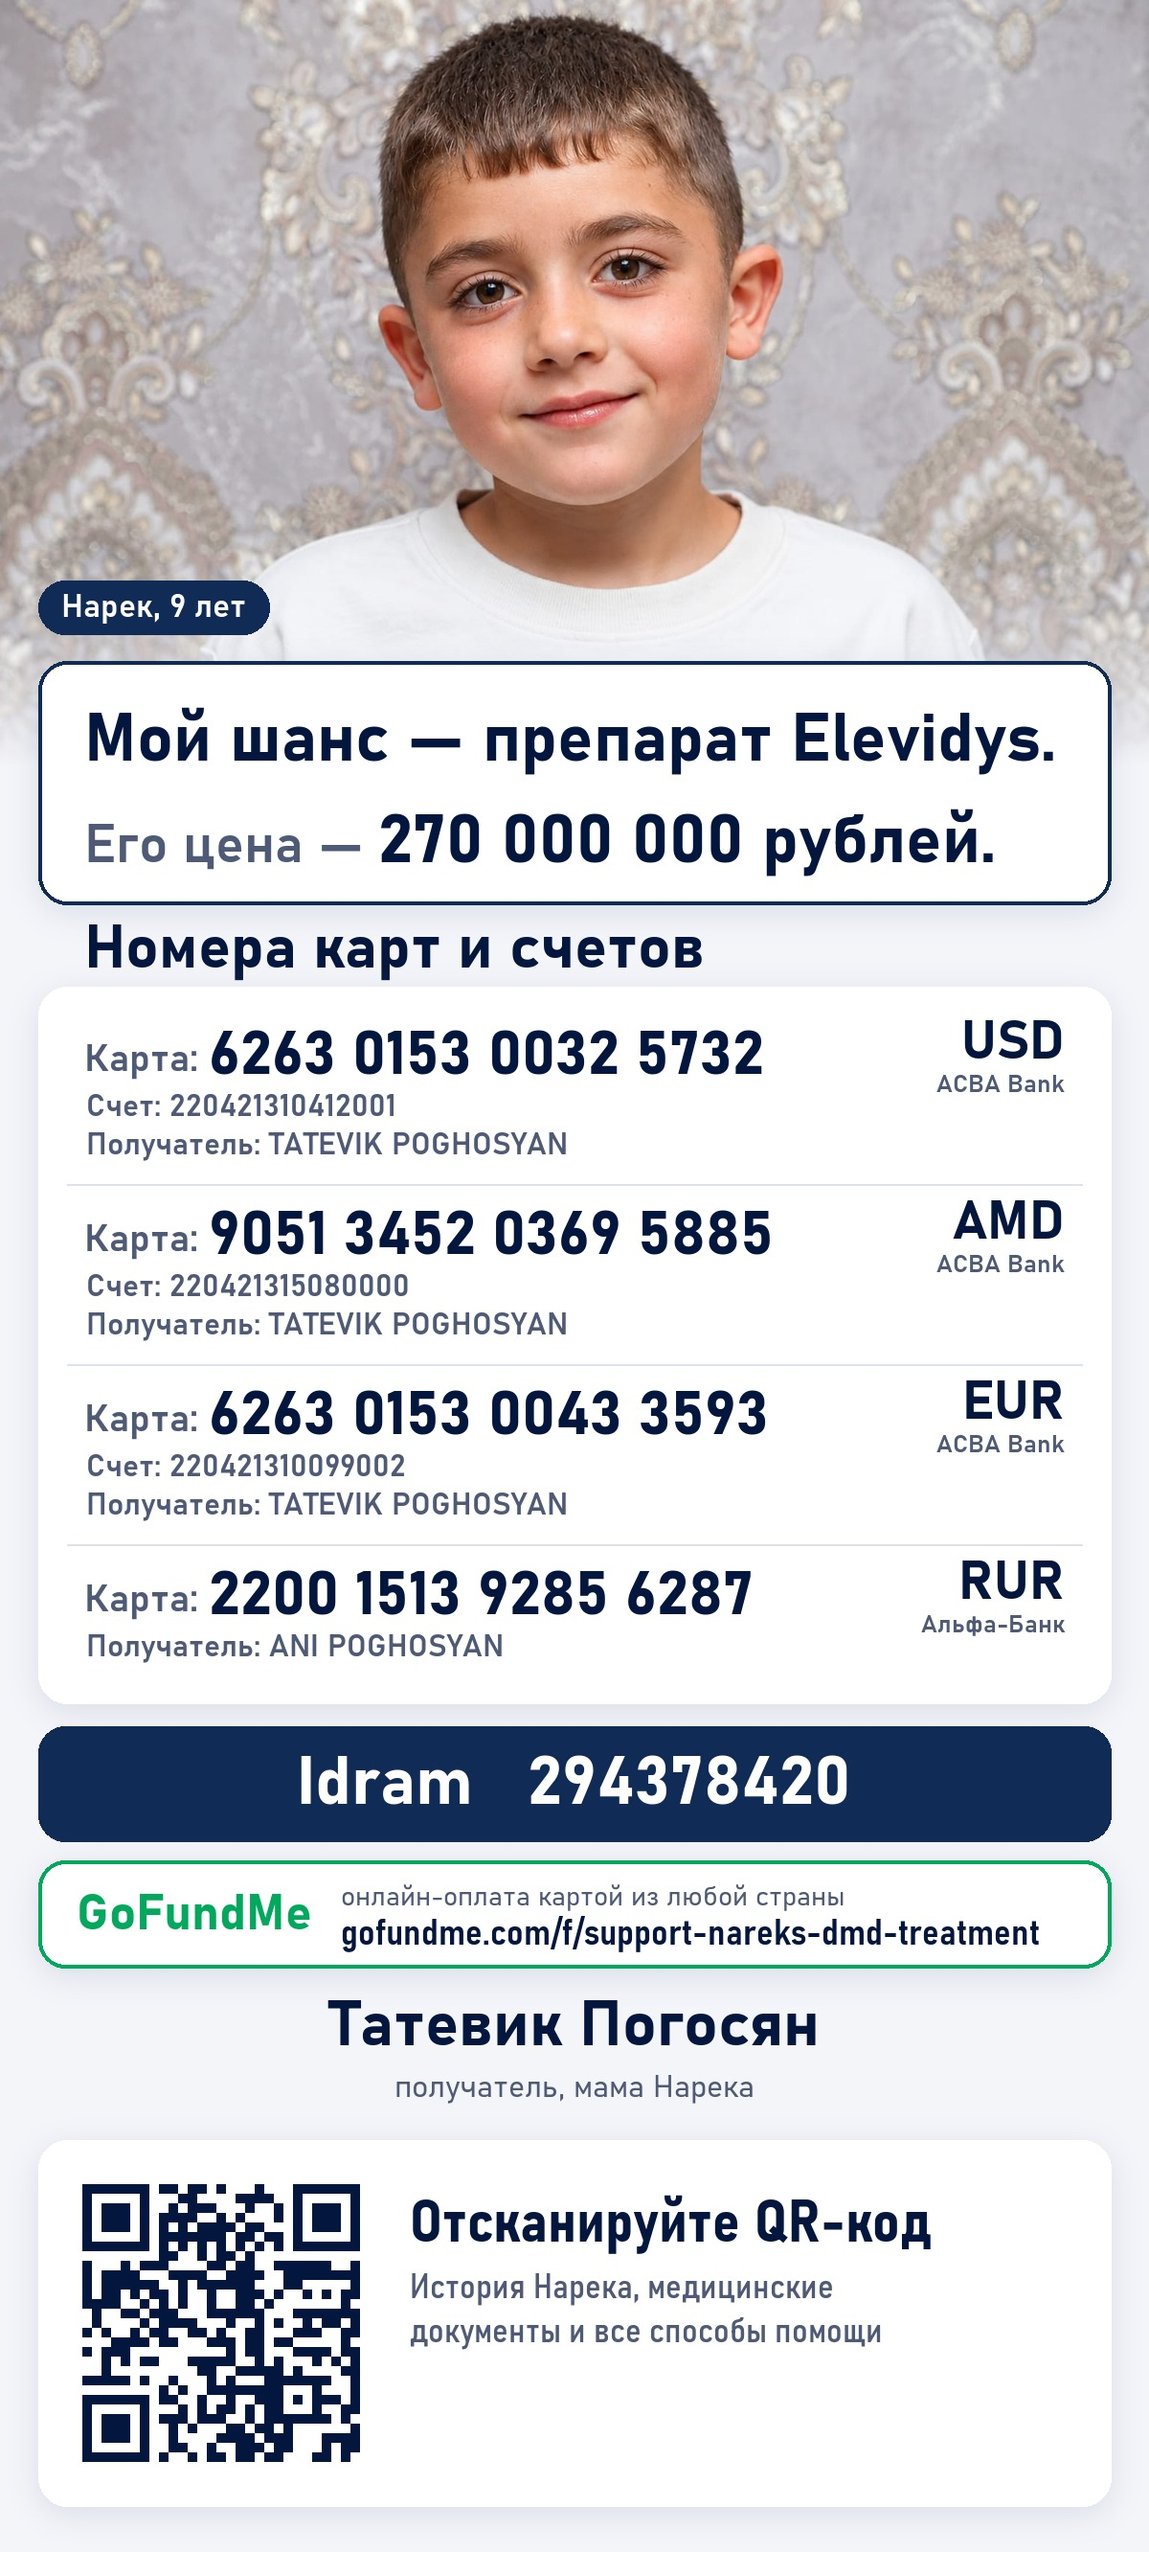
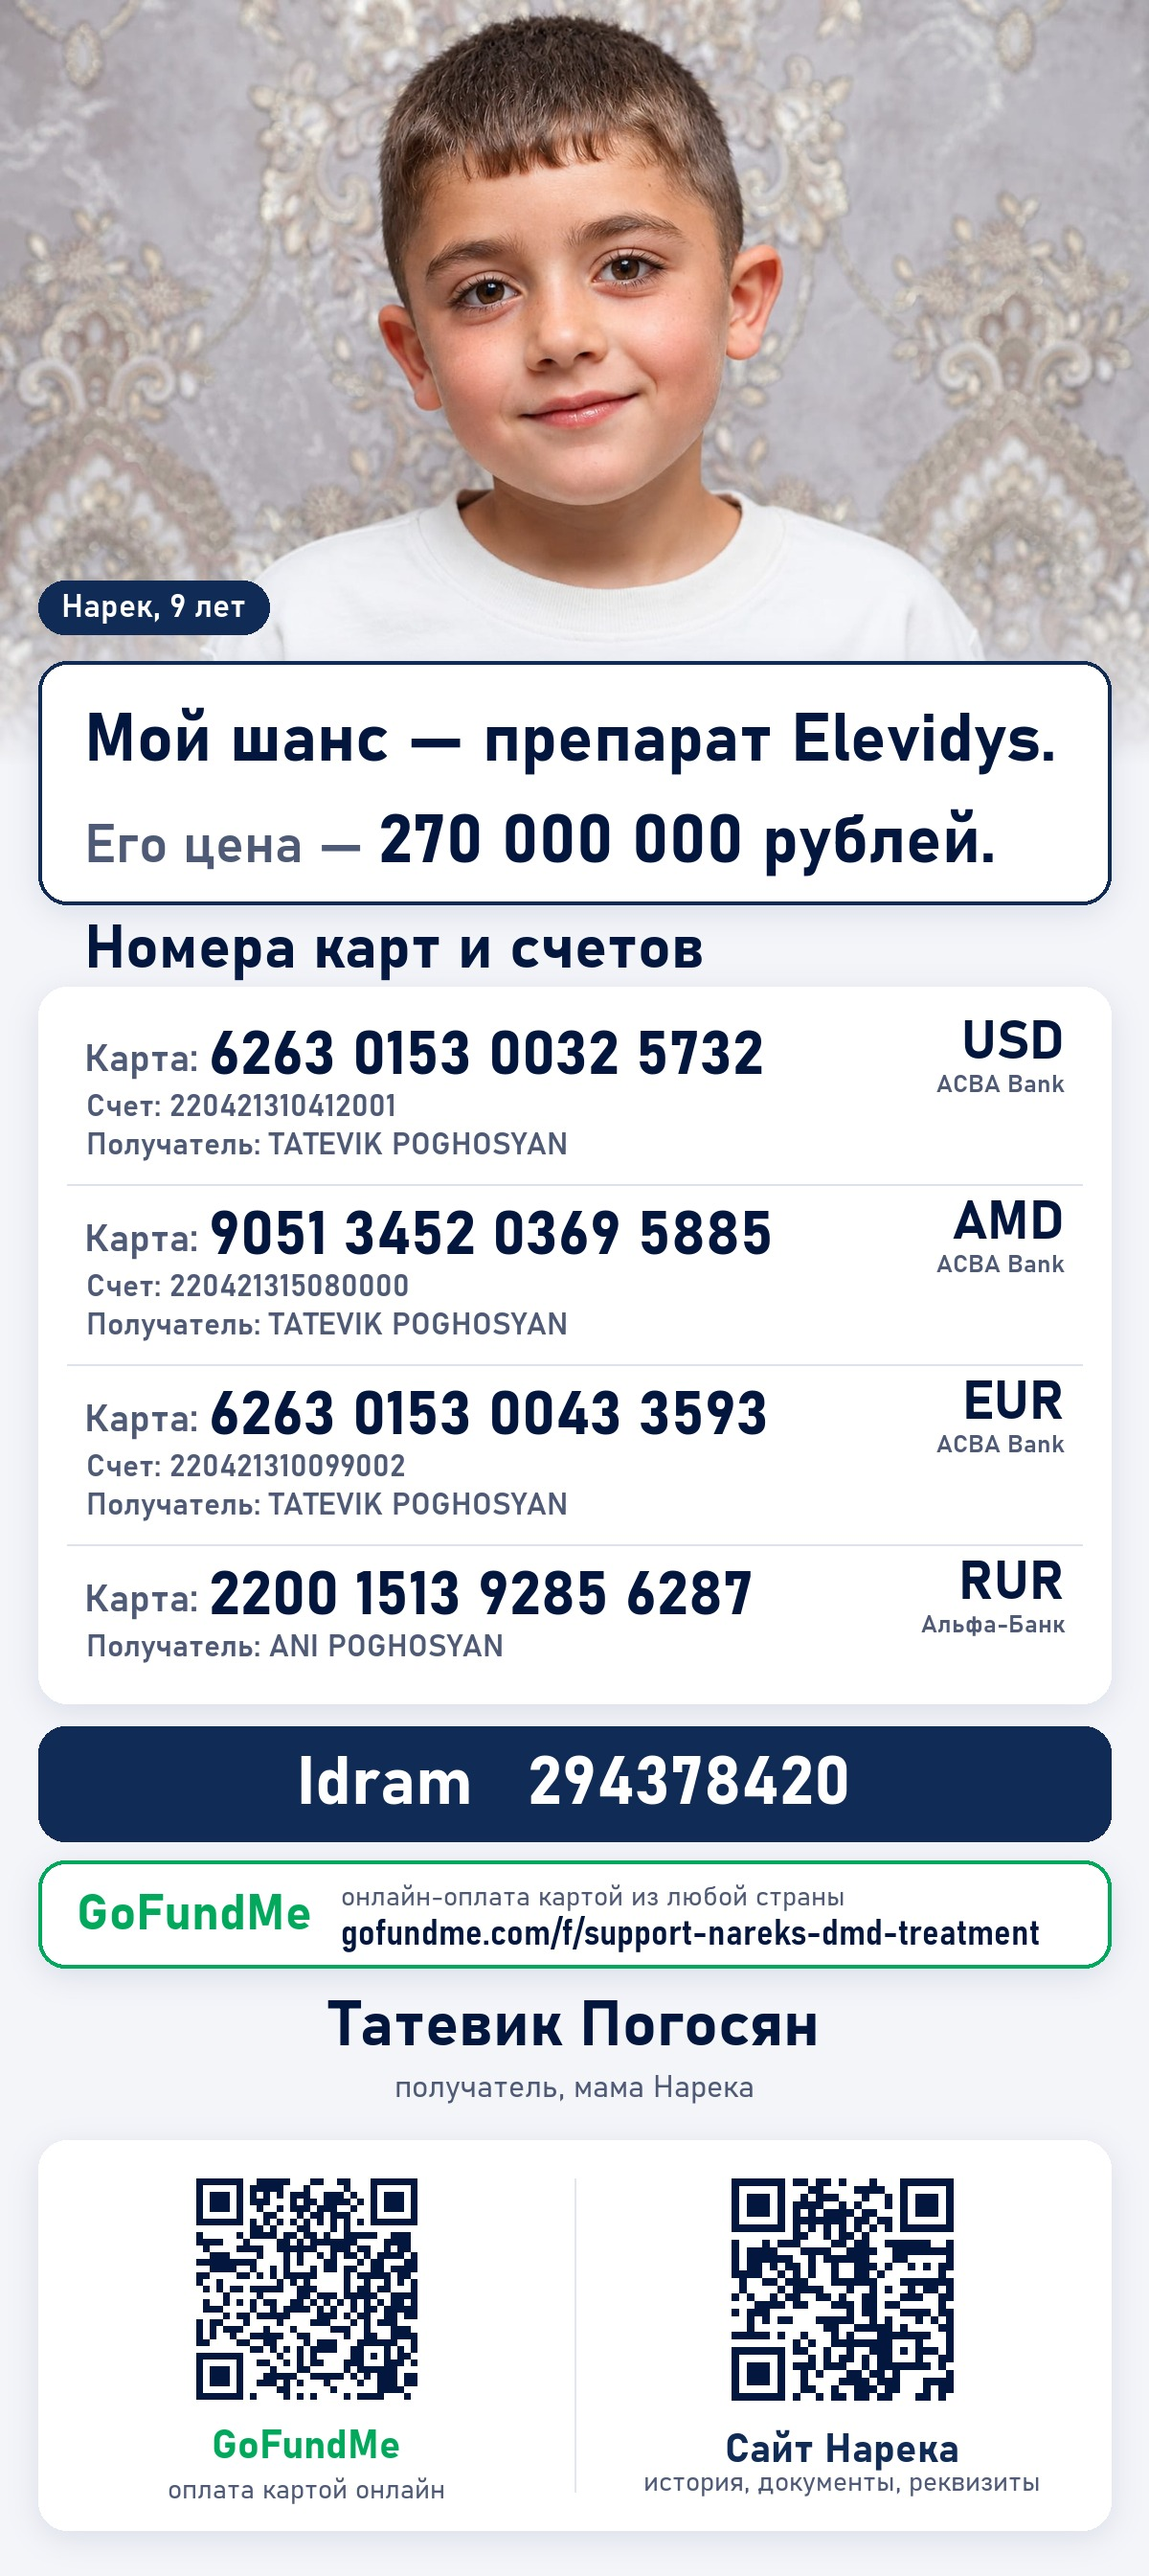
feat: update poster dimensions and enhance QR code generation for GoFundMe and website

diff --git a/tools/make-poster.py b/tools/make-poster.py
@@ -118,12 +118,19 @@ def sub_lines(p):
 
 
 row_heights = [ROW_H + SUB_H * len(sub_lines(payments[pid])) for pid in CARDS]
-QR_MODULE, QR_PAD = 10, 46
-qr = qrcode.QRCode(error_correction=qrcode.constants.ERROR_CORRECT_M, box_size=QR_MODULE, border=0)
-qr.add_data(args.url)
-qr.make(fit=True)
-qr_img = qr.make_image(fill_color=INK, back_color=WHITE).convert("RGB")
-QR = qr_img.size[0]
+def qr_image(url, module):
+    q = qrcode.QRCode(error_correction=qrcode.constants.ERROR_CORRECT_M, box_size=module, border=0)
+    q.add_data(url)
+    q.make(fit=True)
+    return q.make_image(fill_color=INK, back_color=WHITE).convert("RGB")
+
+
+GOFUNDME = campaign.get("gofundme", "")
+GREEN = (2, 169, 92)
+# Two QR codes side by side (GoFundMe + website), as on make-poster-alfa.py; just the site if there is no GoFundMe
+qr_site = qr_image(args.url, 8)
+qr_gfm = qr_image(GOFUNDME, 7) if GOFUNDME else None
+QR_BOX = max(q.size[0] for q in (qr_site, qr_gfm) if q)
 
 y_head = PHOTO_H - 110                                   # headline card overlaps the photo
 h_head = 48 + f_head1.size + 22 + f_head1.size + 44
@@ -131,13 +138,12 @@ y_cards = y_head + h_head + 86
 h_cards = ROWS_PAD * 2 + sum(row_heights)
 y_idram = y_cards + h_cards + 24
 h_idram = 120
-GOFUNDME = campaign.get("gofundme", "")
 y_gfm = y_idram + h_idram + 20
 h_gfm = 112 if GOFUNDME else 0
 y_name = y_gfm + h_gfm + (34 if GOFUNDME else 14)
 h_name = 66 + 12 + 34
 y_qr = y_name + h_name + 34
-h_qr = QR + 2 * QR_PAD
+h_qr = QR_BOX + 175
 H = y_qr + h_qr + 48
 
 # ---------- draw ----------
@@ -210,7 +216,6 @@ draw.text((W // 2, y_idram + h_idram // 2), idram, font=f_idram, fill=WHITE, anc
 
 # GoFundMe: online card payment from any country
 if GOFUNDME:
-    GREEN = (2, 169, 92)
     card(img, (M, y_gfm, W - M, y_gfm + h_gfm), radius=28, border=GREEN)
     draw = ImageDraw.Draw(img)
     gx, gmid = M + 40, y_gfm + h_gfm // 2
@@ -226,29 +231,23 @@ donate = ru["donate"]
 draw.text((W // 2, y_name), donate["recipientName"], font=font(66, "Bold"), fill=INK, anchor="mt")
 draw.text((W // 2, y_name + 66 + 12), f"получатель, {donate['recipientRelation']}", font=font(32, "SemiLight"), fill=MUTED, anchor="mt")
 
-# QR panel
+# QR panel: GoFundMe and the website, each with a caption
 card(img, (M, y_qr, W - M, y_qr + h_qr))
 draw = ImageDraw.Draw(img)
-qx, qy = M + QR_PAD, y_qr + QR_PAD
-img.paste(qr_img, (qx, qy))
-tx = qx + QR + 52
-tw = W - M - QR_PAD - tx
-f_t, f_b, f_u = font(62, "Bold SemiCondensed"), font(36, "SemiCondensed"), font(40, "Bold SemiCondensed")
-body = ["История Нарека, медицинские", "документы и\u00a0все способы помощи"]
-block = 62 + 18 + 46 * len(body) + 26 + 72
-y = y_qr + (h_qr - block) // 2
-draw.text((tx, y), "Отсканируйте QR-код", font=f_t, fill=INK)
-y += 62 + 18
-for line in body:
-    draw.text((tx, y), line, font=f_b, fill=MUTED)
-    y += 46
-y += 26
-# uw = draw.textlength(SHOWN_URL, font=f_u)
-# draw.rounded_rectangle((tx, y, tx + uw + 56, y + 72), 36, fill=NAVY)
-# draw.text((tx + 28, y + 36), SHOWN_URL, font=f_u, fill=WHITE, anchor="lm")
+codes = [(qr_gfm, "GoFundMe", "оплата картой онлайн", GREEN)] if qr_gfm else []
+codes.append((qr_site, "Сайт Нарека", "история, документы, реквизиты", NAVY))
+col_w = (W - 2 * M) // len(codes)
+for i, (q, title, sub, color) in enumerate(codes):
+    cx = M + col_w * i + col_w // 2
+    qy = y_qr + 40 + (QR_BOX - q.size[1]) // 2
+    img.paste(q, (cx - q.size[0] // 2, qy))
+    draw.text((cx, y_qr + 40 + QR_BOX + 30), title, font=font(42, "Bold"), fill=color, anchor="mt")
+    draw.text((cx, y_qr + 40 + QR_BOX + 80), sub, font=font(28, "SemiLight"), fill=MUTED, anchor="mt")
+if len(codes) == 2:
+    draw.line((W // 2, y_qr + 40, W // 2, y_qr + h_qr - 40), fill=(226, 230, 238), width=2)
 
 out = ROOT / args.out
 img.save(out, quality=92, optimize=True)
 thumb_h = round(480 * H / W)
 img.resize((480, thumb_h), Image.LANCZOS).save(out.with_name(out.stem + "-thumb.jpg"), quality=85, optimize=True)
-print(f"Saved {out} ({W}x{H}) and thumbnail 480x{thumb_h}; QR -> {args.url}")
+print(f"Saved {out} ({W}x{H}) and thumbnail 480x{thumb_h}; QR -> {args.url}" + (f" + {GOFUNDME}" if GOFUNDME else ""))
